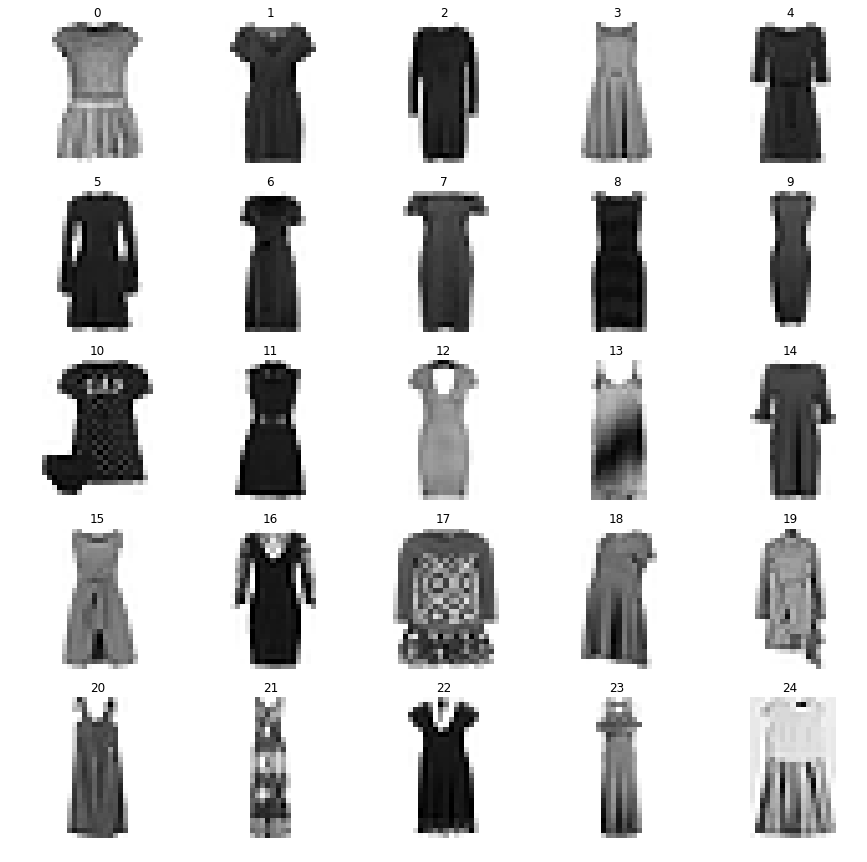
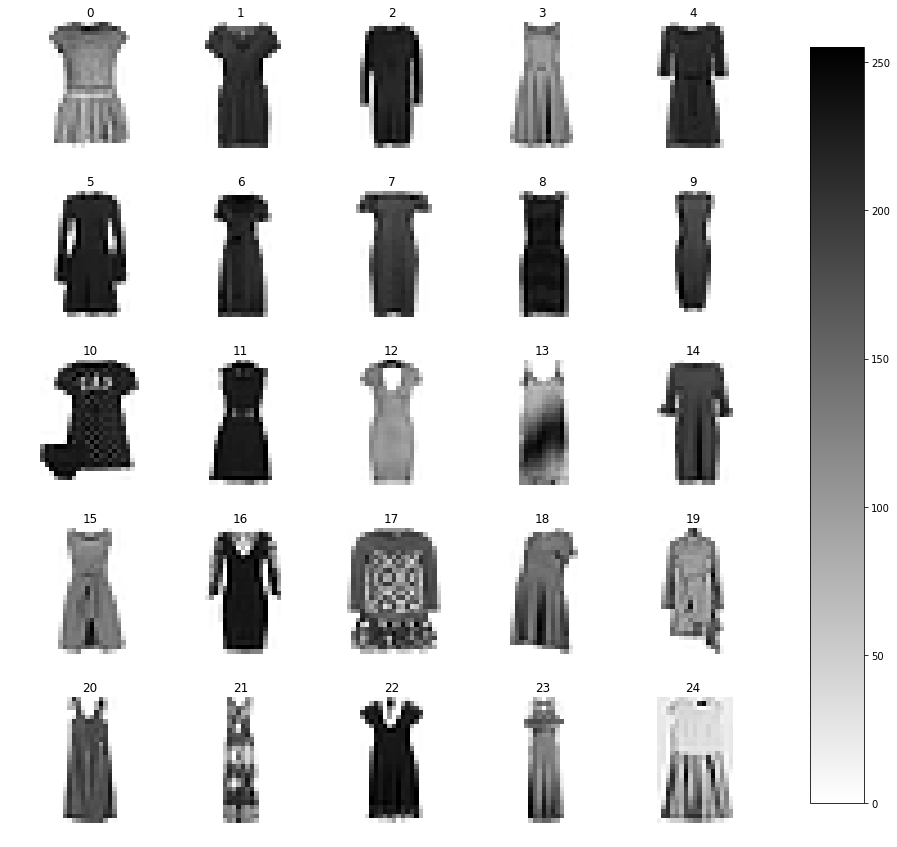
update readme

diff --git a/README.md b/README.md
@@ -36,9 +36,8 @@ X,y = load_mnist('./fashionmnist/')
 
 
 ```python
-#previously was one cell with for i in range(10):
-c = 3 # c = i
-X1 = X[y==c] # select class
+c = 3 # choose class 3
+X3 = X[y==c] # select class
 llength = int(np.sqrt(X.shape[1])) # get length of x,y for reshape
 
 # preapre 25 plots
@@ -47,11 +46,13 @@ fig, axs = plt.subplots(5,5, figsize=(15, 15), facecolor='w', edgecolor='k')
 axs = axs.ravel()
 
 for i in range(25):
-    axs[i].imshow(X1[i].reshape(llength,llength),cmap='gray_r')
+    im = axs[i].imshow(X3[i].reshape(llength,llength),cmap='gray_r')
     axs[i].set_title(str(i))
     axs[i].axis('off')
 
-#plt.subplots_adjust(wspace=0.3, hspace=0)
+fig.subplots_adjust(right=0.8)
+cbar_ax = fig.add_axes([0.85, 0.15, 0.05, 0.7])
+fig.colorbar(im, cax=cbar_ax)
     
 fname = './images/class-'+str(c)+'-original.png'
 plt.savefig(fname)
@@ -65,7 +66,7 @@ plt.savefig(fname)
 ```python
 # PCA
 n_components=25
-pca = PCA(n_components=n_components, svd_solver='randomized',whiten=True).fit(X1)
+pca = PCA(n_components=n_components, svd_solver='randomized',whiten=True).fit(X3)
 
 eigenfaces = pca.components_.reshape((n_components, llength, llength))
 
@@ -74,10 +75,15 @@ fig, axs = plt.subplots(5,5, figsize=(15, 15), facecolor='w', edgecolor='k')
 axs = axs.ravel()
 
 for i in range(25):
-    axs[i].imshow(eigenfaces[i].reshape(llength,llength),cmap='bwr_r')
+    im = axs[i].imshow(eigenfaces[i].reshape(llength,llength),cmap='bwr_r')
     axs[i].set_title(str(i))
     axs[i].axis('off')
-#plt.subplots_adjust(wspace=0, hspace=0)
+    
+fig.subplots_adjust(right=0.8)
+cbar_ax = fig.add_axes([0.85, 0.15, 0.05, 0.7])
+fig.colorbar(im, cax=cbar_ax)
+
+
 fname = './images/class-'+str(c)+'-pca25.png'
 
 plt.savefig(fname)
@@ -90,7 +96,7 @@ plt.savefig(fname)
 
 ```python
 # NMF
-nmf = NMF(n_components=n_components,init='nndsvda', tol=5e-3).fit(X1)
+nmf = NMF(n_components=n_components,init='nndsvda', tol=5e-3).fit(X3)
 
 nmffaces = nmf.components_.reshape((n_components, llength, llength))
 
@@ -99,9 +105,13 @@ fig.subplots_adjust(hspace = .5, wspace=.001)
 axs = axs.ravel()
 
 for i in range(25):
-    axs[i].imshow(nmffaces[i].reshape(llength,llength),cmap='gray_r')
+    im = axs[i].imshow(nmffaces[i].reshape(llength,llength),cmap='gray_r')
     axs[i].set_title(str(i))
     axs[i].axis('off')
+    
+fig.subplots_adjust(right=0.8)
+cbar_ax = fig.add_axes([0.85, 0.15, 0.05, 0.7])
+fig.colorbar(im, cax=cbar_ax)
 
 
 fname = './images/class-'+str(c)+'-nmf25.png'
@@ -110,41 +120,4 @@ plt.savefig(fname)
 
 
 ![png](eigen_fashion_mnist_files/eigen_fashion_mnist_4_0.png)
-
-
-
-```python
-# NMF alternative with bounding box
-nmf = NMF(n_components=n_components,init='nndsvda', tol=5e-3).fit(X1)
-
-nmffaces = nmf.components_.reshape((n_components, llength, llength))
-
-fig, axs = plt.subplots(5,5, figsize=(15, 15), facecolor='w', edgecolor='k')
-fig.subplots_adjust(hspace = .5, wspace=.001)
-axs = axs.ravel()
-
-for i in range(25):
-    axs[i].imshow(nmffaces[i].reshape(llength,llength),cmap='gray_r')
-    axs[i].set_title(str(i))
-#    axs[i].axis('off')
-    axs[i].tick_params(
-        axis='x',          # changes apply to the x-axis
-        which='both',      # both major and minor ticks are affected
-        bottom=False,      # ticks along the bottom edge are off
-        top=False,         # ticks along the top edge are off
-        labelbottom=False) # labels along the bottom edge are off
-    axs[i].tick_params(
-        axis='y',          # changes apply to the x-axis
-        which='both',      # both major and minor ticks are affected
-        right=False,      # ticks along the bottom edge are off
-        left=False,         # ticks along the top edge are off
-        labelleft=False) # labels along the bottom edge are off
-
-
-fname = './images/class-'+str(c)+'-nmf25.png'
-plt.savefig(fname)
-```
-
-
-![png](eigen_fashion_mnist_files/eigen_fashion_mnist_5_0.png)
 
